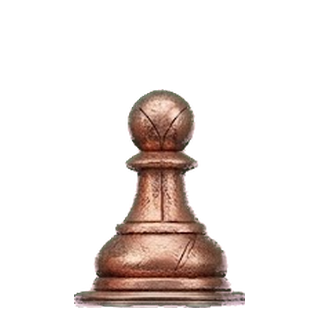
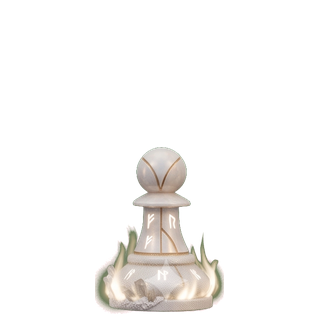
Size black against white piece by piece, not row by row
Every black piece now stands at 0.92 of the white piece of the same type.

Scaling each row as a unit is the obvious approach and it was wrong here.
It makes every piece inherit the internal proportions of its own sheet, and
the two sheets disagree: the ratio between the sides came out between 0.77 and
1.07 depending on the piece, which left the black rook TALLER than the white
one. A board is read as piece types. What has to match across the sides is
rook against rook, not sheet against sheet.

So the cutter gained a second mode. Give it a height and it scales a row as a
unit, keeping that sheet honest to itself. Give it `ref:<dir>:<ratio>` and it
sizes each piece against the one already cut of the same type, keeping two
sheets honest to each other. White is cut first at 308 of 320 -- the king
filling all but a few pixels -- and black refers to it.

Both sides now come from 2400x1792 sheets and from the same row of each, so
every piece is reduced into place instead of enlarged and the two sides share
a design. Cutting the white flame row needed one more thing: two of its pieces
overlap at the flame tips, which merged them into a single column group and
silently produced five pieces instead of six. Merged groups are now split at
the deepest valley in their own column profile.

Claude-Session: https://claude.ai/code/session_01LiXZnuzu6WQwHSooUohDJq

Changed region(s): [[0.2188, 0.2812, 0.7812, 1.0]]

diff --git a/assets/board/recorta_pecas.py b/assets/board/recorta_pecas.py
@@ -5,7 +5,8 @@ A sheet is one image: rows of six pieces on a flat colour, in the order
 K Q R B N P. What comes out is what the board actually loads -- 320x320 RGBA,
 one file per piece.
 
-    python3 recorta_pecas.py <folha> <destino> <bandas> [altura_max]
+    python3 recorta_pecas.py <folha> <destino> <bandas> <altura_max>
+    python3 recorta_pecas.py <folha> <destino> <bandas> ref:<dir>:<razao>
 
 `bandas` says what each row of the sheet is, top to bottom, comma separated:
 `w` white, `b` black, `-` skip. So `w,b` takes both rows of one sheet, and
@@ -15,8 +16,15 @@ sheet offering two alternatives needs.
 `altura_max` is how tall the tallest piece of that row ends up, in pixels of
 the 320 canvas. It is given rather than derived because the two sides can come
 from DIFFERENT sheets, and then nothing inside one sheet can say how big it
-should be relative to the other. White fills the square at 296; black is
-deliberately smaller, at 266.
+should be relative to the other.
+
+`ref:<dir>:<razao>` sizes each piece against the one already in `<dir>` of the
+same type, at that ratio -- so a black rook is a fixed fraction of the white
+rook rather than of the black king. That is not the same thing, and the
+difference shows: with each row scaled as a unit, the two sheets' internal
+proportions came out at ratios from 0.77 to 1.07 between the sides, which put
+the black rook TALLER than the white one. A board is read as piece types, not
+as sheets.
 """
 from PIL import Image
 import numpy as np
@@ -25,7 +33,7 @@ import os
 
 NOMES = ["K", "Q", "R", "B", "N", "P"]
 LADO = 320
-MARGEM = 12
+MARGEM = 6
 
 
 def carrega(caminho):
@@ -78,7 +86,16 @@ def bandas_de(m, minimo=40):
     return bs
 
 
-def colunas_de(m, y0, y1):
+def colunas_de(m, y0, y1, quantas=6):
+    """The six pieces of a row, split apart.
+
+    Blank columns are enough when the pieces stand clear of each other. They do
+    not always: on one sheet two pieces in a flaming row overlap at the tips,
+    which merges them into a single group and silently yields five pieces
+    instead of six. When that happens the widest group is split at the deepest
+    valley in its own column profile -- the narrowest point between two bodies
+    -- and the split repeats until the count is right.
+    """
     col = m[y0:y1].sum(axis=0)
     gs, ini = [], None
     for x, v in enumerate(col):
@@ -90,14 +107,41 @@ def colunas_de(m, y0, y1):
             ini = None
     if ini is not None:
         gs.append((ini, len(col)))
+
+    while len(gs) < quantas:
+        i = max(range(len(gs)), key=lambda k: gs[k][1] - gs[k][0])
+        x0, x1 = gs[i]
+        # Only the middle is a candidate: the valley between two bodies is
+        # never within a quarter-width of either end.
+        m0, m1 = x0 + (x1 - x0) // 4, x1 - (x1 - x0) // 4
+        if m1 - m0 < 4:
+            break
+        corte = m0 + int(np.argmin(col[m0:m1]))
+        gs[i:i + 1] = [(x0, corte), (corte, x1)]
+        gs.sort()
     return gs
+
+
+def altura_visivel(im):
+    """How tall the drawing inside a 320x320 tile actually is."""
+    a = np.asarray(im.convert("RGBA"))
+    ys = np.nonzero((a[:, :, 3] > 20).any(axis=1))[0]
+    return int(ys.max() - ys.min() + 1)
 
 
 def main():
     if len(sys.argv) < 4:
         raise SystemExit(__doc__)
     folha, destino, spec = sys.argv[1], sys.argv[2], sys.argv[3].split(",")
-    alvo = int(sys.argv[4]) if len(sys.argv) > 4 else LADO - 2 * MARGEM
+    arg = sys.argv[4] if len(sys.argv) > 4 else str(LADO - 2 * MARGEM)
+    ref = None
+    if arg.startswith("ref:"):
+        _, refdir, razao = arg.split(":")
+        ref = {n: Image.open(os.path.join(refdir, f"w{n}.png")) for n in NOMES}
+        ref = {n: altura_visivel(im) * float(razao) for n, im in ref.items()}
+        alvo = None
+    else:
+        alvo = int(arg)
     os.makedirs(destino, exist_ok=True)
 
     a, fundo = carrega(folha)
@@ -122,12 +166,14 @@ def main():
             rec[NOMES[i]] = Image.fromarray(
                 sub[ys.min():ys.max() + 1, xs.min():xs.max() + 1], "RGBA")
 
-        # One scale for the whole row. Nothing is normalised piece by piece:
-        # relative height between pieces is exactly as drawn, and it is how a
-        # player tells a rook from a queen without looking twice. Fitting each
-        # piece to its own square would make the pawn as tall as the king.
-        g = alvo / max(im.size[1] for im in rec.values())
+        # Either one scale for the whole row -- relative heights exactly as
+        # drawn -- or one height per piece, taken from the reference set. The
+        # first keeps a sheet honest to itself; the second keeps two sheets
+        # honest to each other, which is what a board needs when the sides were
+        # generated separately.
+        g_fila = None if alvo is None else alvo / max(im.size[1] for im in rec.values())
         for nome, img in rec.items():
+            g = g_fila if g_fila is not None else ref[nome] / img.size[1]
             nw = max(1, round(img.size[0] * g))
             nh = max(1, round(img.size[1] * g))
             r = img.resize((nw, nh), Image.LANCZOS)
@@ -135,7 +181,8 @@ def main():
             # Centred, and standing on a baseline shared by every piece.
             tela.alpha_composite(r, ((LADO - nw) // 2, LADO - MARGEM - nh))
             tela.save(os.path.join(destino, f"{cor}{nome}.png"))
-        hs = {n: round(rec[n].size[1] * g) for n in NOMES}
+        hs = {n: round(rec[n].size[1] * (g_fila if g_fila is not None else ref[n] / rec[n].size[1]))
+              for n in NOMES}
         print(f"  {cor}: " + "  ".join(f"{n}={hs[n]:3d}" for n in NOMES))
 
 

diff --git a/assets/board/README.md b/assets/board/README.md
@@ -12,44 +12,45 @@ Copper and warm flame for white; blackened steel with cold blue light for
 black, a raven on its king. The knight is a bird of prey rather than a horse: Kestrel is
 a falcon.
 
-**The two sides are not one set in two colours** -- they are separate designs,
-from separate sheets, and white is the imposing one. White fills the square at
-296 pixels; black stands at 266, nine tenths of that. That ratio is a choice
-and it has to be stated, because with the sides coming from different sheets
-there is nothing inside either one that could imply it.
+**The two sides are not one set in two colours** -- they are separate designs
+from separate sheets, and white is the imposing one. The king fills all but a
+few pixels of its square, and every black piece stands at **0.92 of the white
+piece of the same type**.
 
-Within each side nothing is normalised. Relative heights between pieces are
+That last part is the whole trick, and it is not the obvious way to do it. The
+obvious way scales each row as a unit, so every piece inherits the internal
+proportions its own sheet drew. Done that way here, the ratio between the
+sides came out anywhere from 0.77 to 1.07 depending on the piece -- which put
+the black rook TALLER than the white one. A board is read as piece types, not
+as sheets: what has to match across the sides is rook against rook.
+
+Within white nothing is normalised. Relative heights between white pieces are
 exactly as drawn, flames and crests included, which is why the rook stands
-close to the queen. One baseline for all twelve. Nothing is fitted to its own
-square individually: relative height is how a player tells a rook from a queen
-without looking twice, and per-piece fitting would make the pawn as tall as
-the king.
+well below the bishop. One baseline for all twelve.
 
 Heights as shipped, in pixels of the 320 canvas:
 
 | | K | Q | R | B | N | P |
 |---|---|---|---|---|---|---|
-| white | 296 | 252 | 289 | 252 | 281 | 219 |
-| black | 266 | 206 | 189 | 206 | 204 | 179 |
+| white | 308 | 304 | 221 | 298 | 250 | 167 |
+| black | 283 | 280 | 201 | 274 | 230 | 154 |
 
-`pretas-fonte.png` holds two alternative designs, one per row, and the **first**
-is the one used. Not for its look -- for its proportions. In the second row the
-pawn is drawn at half its king; here it is at two thirds, which is close to
-white's three quarters. Scaling a row so its tallest piece fits means every
-other piece inherits that row's internal ratios, so a squat pawn in the sheet
-becomes a pawn that disappears on the board.
+Both sides come from the second row of their sheet -- the one with flame and
+runes. The first row of each is a quieter alternative, still there.
 
 ## Rebuilding them
 
 Two sheets, because the sides were generated separately:
 
 ```
-python3 recorta_pecas.py pecas-fonte.jpeg  . "w,-"  296   # brancas: 1a fila
-python3 recorta_pecas.py pretas-fonte.png  . "b,-"  266   # pretas:  1a fila
+python3 recorta_pecas.py brancas-fonte.png . "-,w" 308            # 2a fila
+python3 recorta_pecas.py pretas-fonte.png  . "-,b" ref:.:0.92     # 2a fila
 ```
 
 The third argument says what each row of the sheet is, top to bottom -- `w`,
-`b`, or `-` to skip. The fourth is how tall that row's tallest piece ends up.
+`b`, or `-` to skip. The fourth is either a height for that row's tallest
+piece, or `ref:<dir>:<razao>` to size each piece against the white one of the
+same type already in `<dir>`. White is cut first; black refers to it.
 
 Two things in there are worth knowing before changing it. The row bands are
 **measured** from the image's own row profile rather than guessed, because the
@@ -58,10 +59,9 @@ only visible once it is published. And the green is un-mixed from the edge
 pixels rather than merely keyed out: skip that and every piece carries a green
 halo the moment it lands on a board, which is exactly where it lands.
 
-The black sheet is 2400x1792 PNG, so its pieces are reduced into place. The
-white one is a 1024-wide JPEG and is being enlarged -- about 150 pixels across
-before scaling to 320 -- and is visibly softer. Regenerating white at the same
-size as black is the outstanding job here.
+Both sheets are 2400x1792 PNG, so every piece is reduced into place rather
+than enlarged. `pecas-fonte.jpeg` is the original 1024-wide sheet the set
+started from, kept for the record.
 
 ## The squares
 
